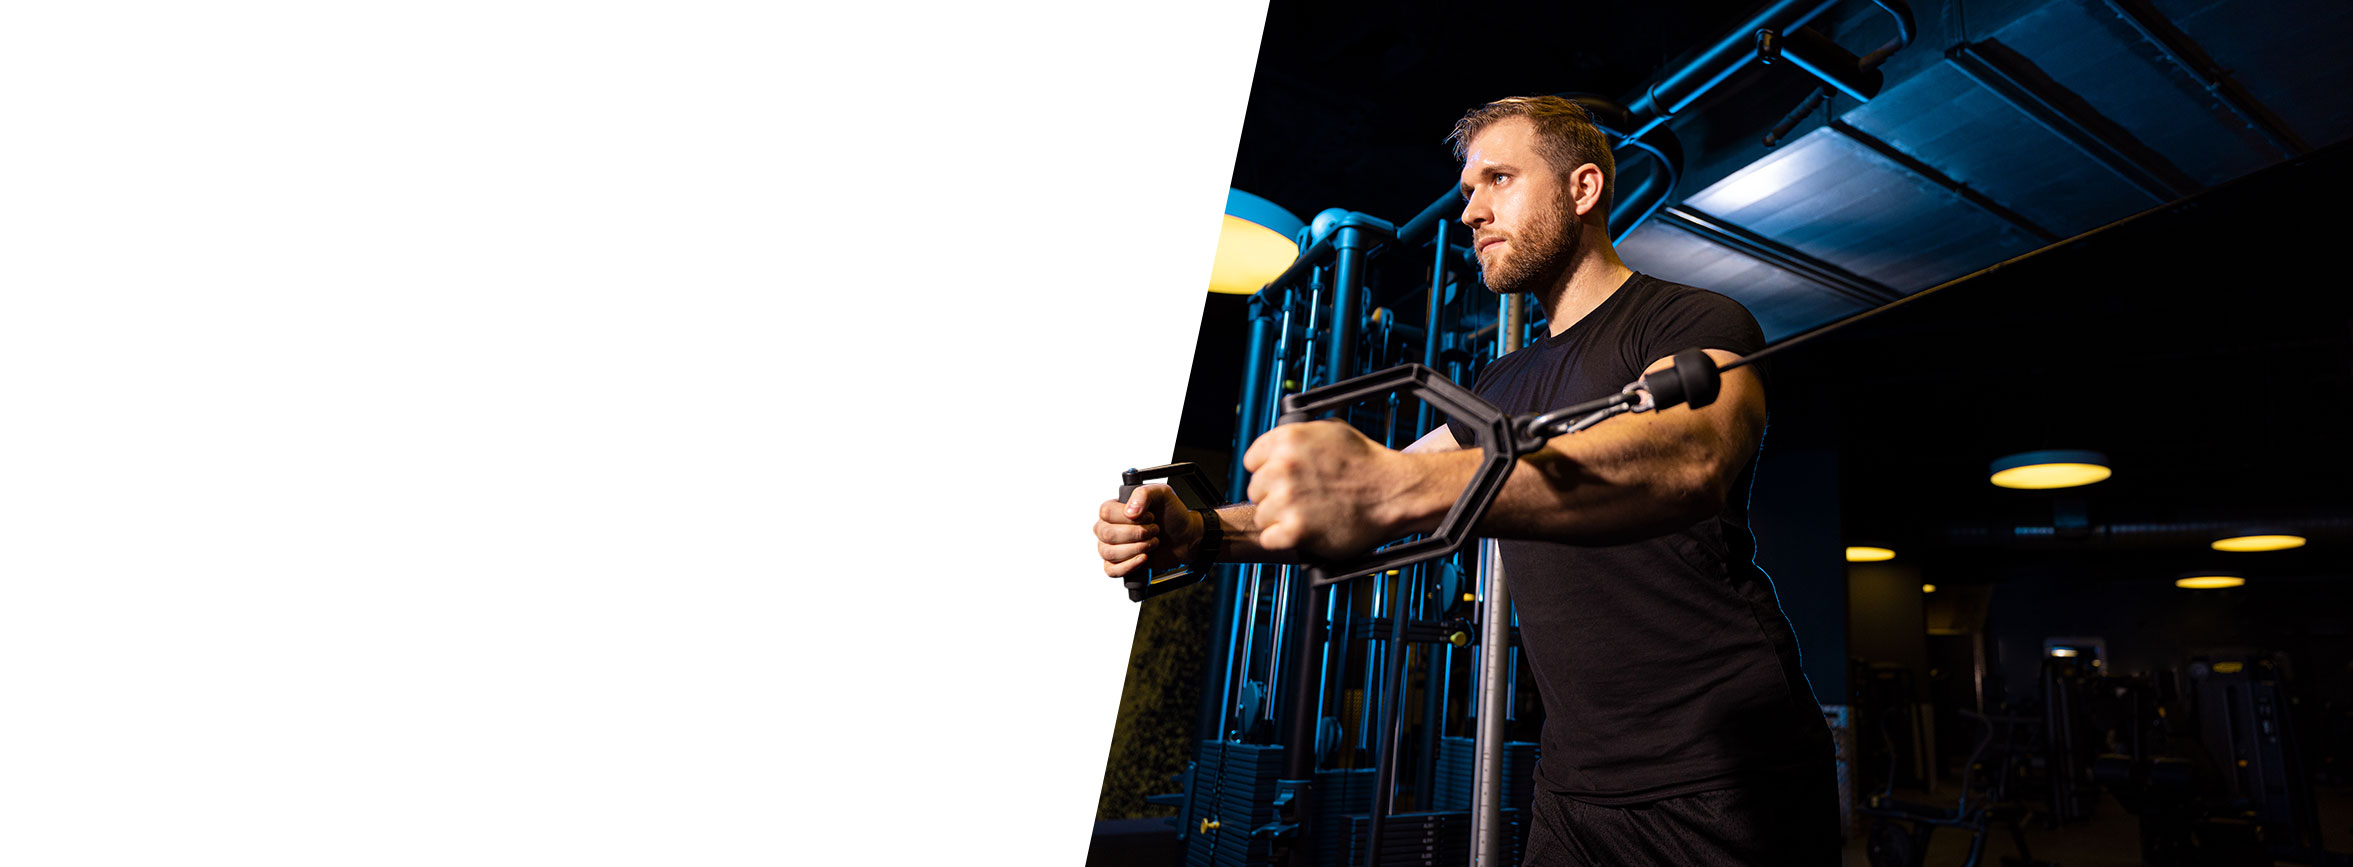
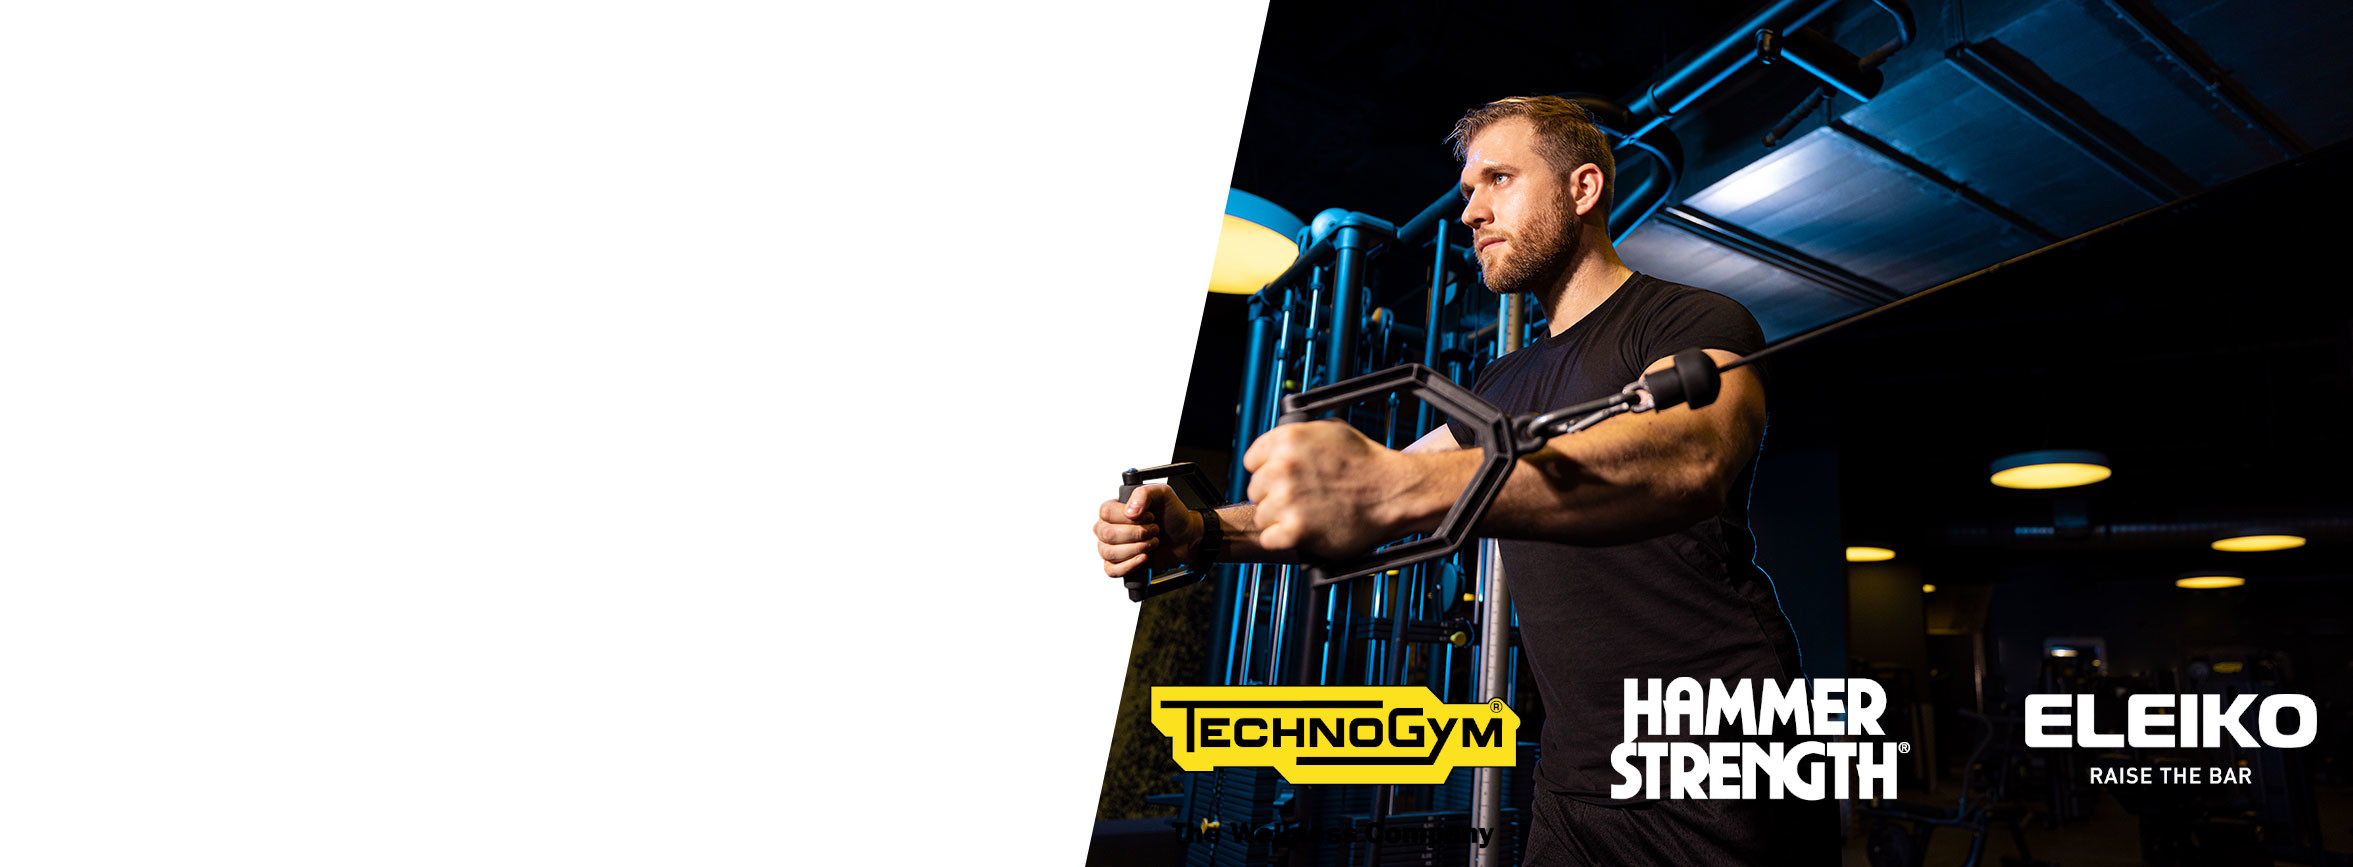
update

diff --git a/index.html b/index.html
@@ -65,14 +65,10 @@
   <img class= "img-fluid" src="images/img-lame-2.jpg">
   <div class="card-img-overlay text-center flex-end">
 <div class="row">
-  <div class="col-sm-4">
-    <div class="text-center flex-end">
-    <h2>Nuestras marcas:</p>
-    </div>
-  </div>
-  <div class="col-sm-8">
-    <div class="d-flex flex-wrap align-content-end">
-    <img class= "img-fluid" src="images/marcas.png" style="width:100%">
+  <div class="col-sm-12">
+    <div class="justify-content-right">
+    <h2>Nuestras marcas:</h2>
+    <p style="width: 100px;">Contamos con las mejores marcas del mercado</p>
     </div>
   </div>
 </div>
